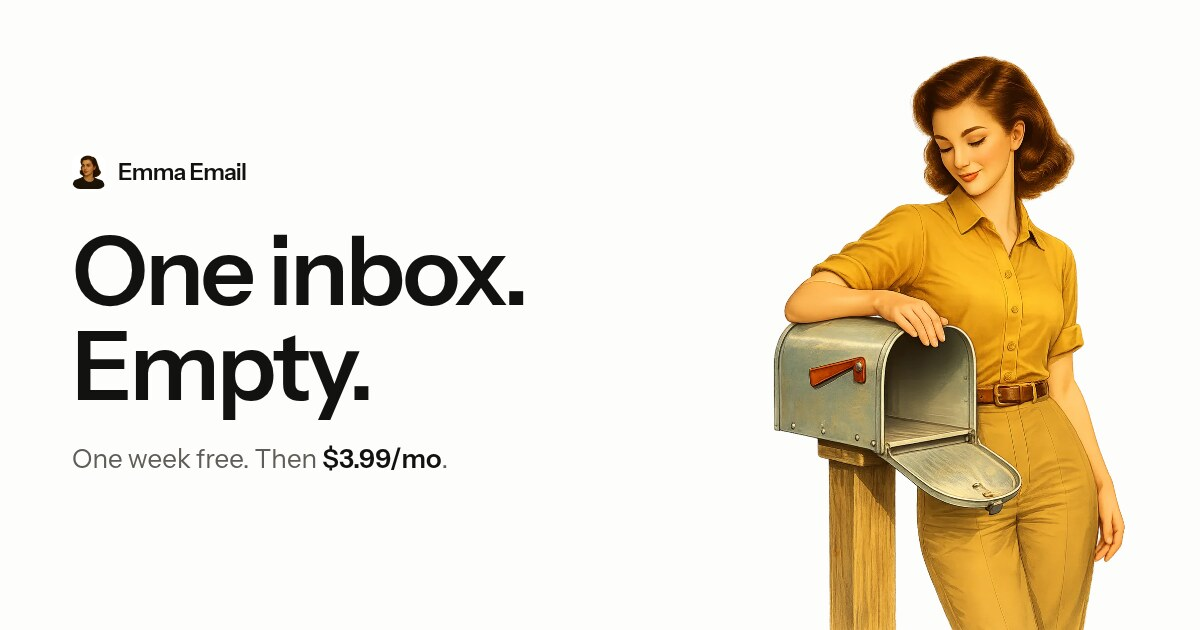
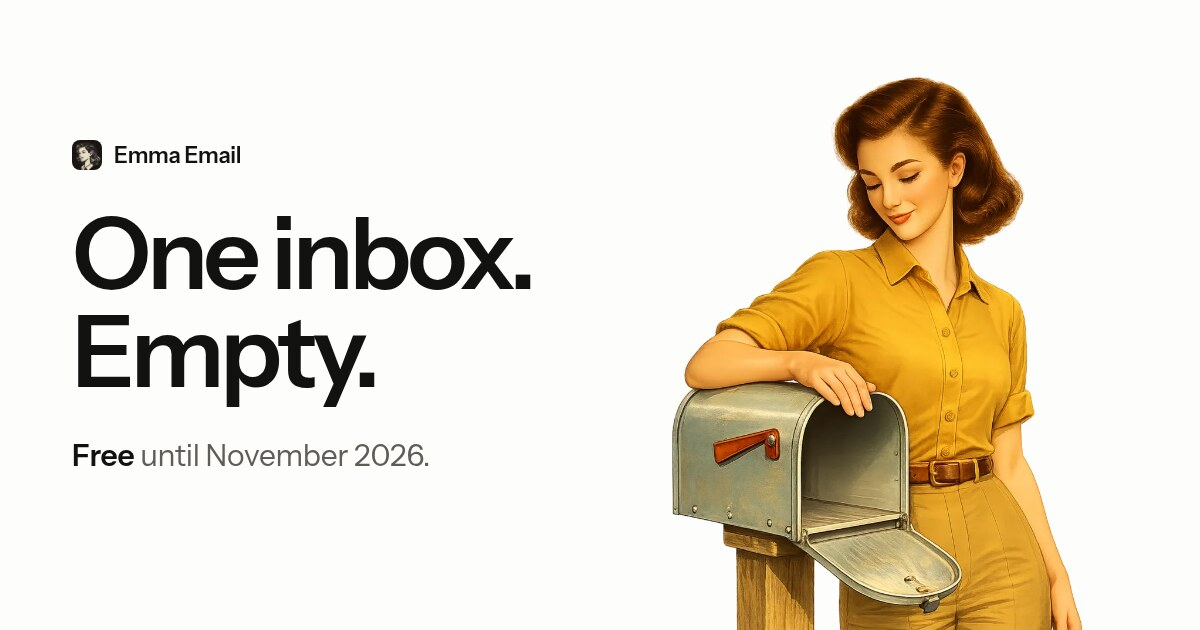
Say free until November 2026 in link previews
The Open Graph image still read "One week free. Then $3.99/mo."
in its pixels, and the privacy page's image alt text said the same,
so link previews on social sites and in chat apps contradicted the
page. The image is re-rendered from the site's own hero art, fonts
and brand mark at the same 1200 by 630 size.

diff --git a/privacy-policy.html b/privacy-policy.html
@@ -22,7 +22,7 @@
     <meta property="og:image:height" content="630" />
     <meta
       property="og:image:alt"
-      content="Emma Email — One inbox. Empty. One week free, then $3.99 a month."
+      content="Emma Email — One inbox. Empty. Free until November 2026, then $3.99 a month."
     />
     <meta name="twitter:image" content="https://emmaemail.app/og-image.jpg" />
     <link rel="canonical" href="https://emmaemail.app/privacy-policy" />
